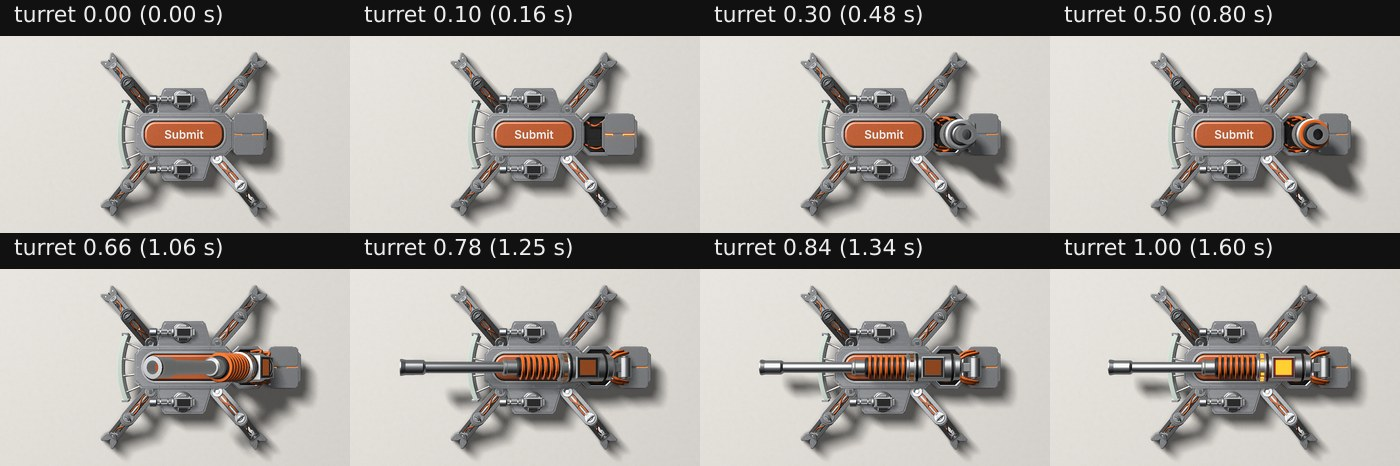
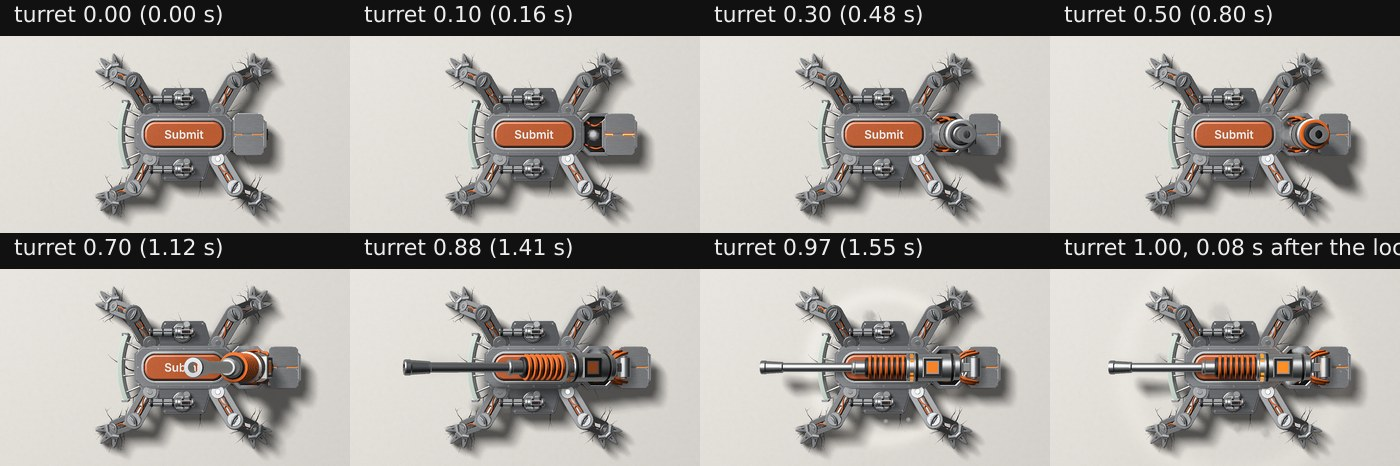
bosslook: smoke with lumps and shade, soot that reads dark, the button level when beaten, the lock at turret 0.94, sets for firing, the blast, damage, beaten and the page

diff --git a/src/boss/look1/fx.ts b/src/boss/look1/fx.ts
@@ -20,10 +20,11 @@ export interface Fx {
 
 const ORANGE: [number, number, number] = [1, 0.42, 0.1]
 const HOT: [number, number, number] = [1, 0.82, 0.55]
-const DUST: [number, number, number] = [0.66, 0.64, 0.61]
-const SMOKE: [number, number, number] = [0.3, 0.3, 0.31]
-const STEAM: [number, number, number] = [0.9, 0.9, 0.9]
-const SOOT: [number, number, number] = [0.1, 0.1, 0.105]
+const DUST: [number, number, number] = [0.42, 0.4, 0.37]
+const SMOKE: [number, number, number] = [0.085, 0.085, 0.09]
+const STEAM: [number, number, number] = [0.56, 0.57, 0.59]
+const SHADE: [number, number, number] = [0.05, 0.048, 0.045]
+const SOOT: [number, number, number] = [0.022, 0.021, 0.02]
 
 function texture(alpha: (u: number, v: number) => number, n = 64): THREE.DataTexture {
   const data = new Uint8Array(n * n * 4)
@@ -43,6 +44,26 @@ function texture(alpha: (u: number, v: number) => number, n = 64): THREE.DataTex
 }
 
 const blob = (u: number, v: number): number => { const r = Math.hypot(u, v); return r >= 1 ? 0 : Math.pow(1 - r * r, 2) }
+const noise = (x: number, y: number, seed: number): number => {
+  const i = Math.floor(x)
+  const j = Math.floor(y)
+  const fx = x - i
+  const fy = y - j
+  const sx = fx * fx * (3 - 2 * fx)
+  const sy = fy * fy * (3 - 2 * fy)
+  const a = hash01(i, j, seed)
+  const b = hash01(i + 1, j, seed)
+  const c = hash01(i, j + 1, seed)
+  const d = hash01(i + 1, j + 1, seed)
+  return a + (b - a) * sx + (c - a) * sy + (a - b - c + d) * sx * sy
+}
+// A puff: a soft ball whose edge is eaten by lumps, so it reads as smoke and not as a blurred dot.
+const puff = (u: number, v: number): number => {
+  const r = Math.hypot(u, v)
+  if (r >= 1) return 0
+  const n = 0.6 * noise(u * 2.6 + 9, v * 2.6 + 9, 71) + 0.4 * noise(u * 6.1 + 3, v * 6.1 + 3, 72)
+  return clamp01((1 - r * r) * 1.9 - n * 1.25) * (1 - r * r * r * r)
+}
 const ring = (u: number, v: number): number => { const r = Math.hypot(u, v); return Math.exp(-Math.pow((r - 0.8) / 0.09, 2)) }
 const bar = (_u: number, v: number): number => Math.pow(Math.max(0, 1 - v * v), 1.5)
 
@@ -141,14 +162,25 @@ export function makeFx(o: LookOptions, level0: Level): Fx {
   let level: Level = level0
   const budget = (): { chunks: number; puffs: number; lamps: number } => COUNTS[level ?? 'film']
 
-  const tex = { blob: texture(blob), ring: texture(ring, 128), bar: texture(bar, 32) }
-  const smoke = new Sprites(160, tex.blob, false, 40)
+  const tex = { blob: texture(blob), puff: texture(puff, 128), ring: texture(ring, 128), bar: texture(bar, 32) }
+  const soft = new Sprites(360, tex.puff, false, 40)
+  const lit = (c: [number, number, number], k: number): [number, number, number] => [Math.min(1, c[0] * k + 0.02), Math.min(1, c[1] * k + 0.02), Math.min(1, c[2] * k + 0.02)]
+  // Each puff is laid twice, a darker underside and a lighter top pushed toward the light, and throws a faint shade on the ground: that is all its volume.
+  const smoke = {
+    add(x: number, y: number, z: number, w: number, h: number, turn: number, colour: [number, number, number], a: number): void {
+      if (a <= 0.003) return
+      if (z > 6) soft.add(x + z * 0.32, y - z * 0.42, 1.2, w * 1.15, h * 1.15, turn, SHADE, a * 0.3)
+      soft.add(x + w * 0.05, y - h * 0.05, z, w, h, turn, lit(colour, 0.55), a)
+      soft.add(x - w * 0.07, y + h * 0.07, z + 0.4, w * 0.8, h * 0.8, turn + 1.7, lit(colour, 1.5), a * 0.85)
+    },
+    begin: (): void => soft.begin(), end: (): void => soft.end(), dispose: (): void => soft.dispose(), mesh: soft.mesh
+  }
   const glow = new Sprites(160, tex.blob, true, 50)
   const rings = new Sprites(24, tex.ring, true, 51)
   const bars = new Sprites(96, tex.bar, true, 52)
   const chunks = new Bits(64, chunkGeo(), kit.ceramic, true)
   const shards = new Bits(24, new THREE.TetrahedronGeometry(1, 0), kit.glassEdge, true)
-  const ballMat = new THREE.MeshBasicMaterial({ color: new THREE.Color(3.2, 1.25, 0.3) })
+  const ballMat = new THREE.MeshBasicMaterial({ color: new THREE.Color(1.35, 0.36, 0.05) })
   const balls = new Bits(96, new THREE.IcosahedronGeometry(1, 2), ballMat, true)
   balls.mesh.receiveShadow = false
 
@@ -174,7 +206,7 @@ export function makeFx(o: LookOptions, level0: Level): Fx {
   const footCracks = FEET.map(([fx, fy], i) => {
     const c = Math.cos(-o.home.heading)
     const s = Math.sin(-o.home.heading)
-    const m = mesh(crackStar(o.seed + 10 + i, 7, (a) => [Math.cos(a) * 9, Math.sin(a) * 9], 46, 1.5), kit.crack, false, false)
+    const m = mesh(crackStar(o.seed + 10 + i, 9, (a) => [Math.cos(a) * 15, Math.sin(a) * 15], 54, 1.3), kit.crack, false, false)
     m.position.set(hx + (fx * c - fy * s) * K, hy + (fx * s + fy * c) * K, 0.25)
     ground.add(m)
     return m
@@ -265,8 +297,11 @@ export function makeFx(o: LookOptions, level0: Level): Fx {
       landCracks.scale.setScalar(0.5 + 0.5 * outCubic(lin(f, FORM.land, FORM.land + 0.03)))
       footCracks.forEach((m, i) => {
         const at = FORM.legs[i]! + FORM.legTime
-        m.visible = o.ground && f >= at
-        m.scale.setScalar(0.4 + 0.6 * outCubic(lin(f, at, at + 0.03)))
+        const leg = p.legs[i]!
+        m.visible = o.ground && f >= at && leg.lift < 0.5
+        m.position.x = leg.planted[0]
+        m.position.y = leg.planted[1]
+        m.scale.setScalar(f >= 1 ? 1 - 0.6 * leg.lift * 2 : 0.4 + 0.6 * outCubic(lin(f, at, at + 0.03)))
       })
     }
     if (p.shown && f > 0) {
@@ -320,7 +355,7 @@ export function makeFx(o: LookOptions, level0: Level): Fx {
       const tt = t * TIMES.turret
       const [bx, by] = fromBody(p, HATCH.cx + 30, 0)
       if (t > 0.04 && t < 1) {
-        const fadeOut = 1 - prog(t, 0.86, 1)
+        const fadeOut = 1 - prog(t, 0.9, 1)
         for (let k = 0; k < 16; k++) {
           const age = tt - 0.08 - k * 0.075
           if (age < 0 || age > 0.75) continue
@@ -330,9 +365,14 @@ export function makeFx(o: LookOptions, level0: Level): Fx {
           smoke.add(bx + Math.cos(a) * 46 * u + 10 * u, by + Math.sin(a) * 40 * u + 16 * u, 70 + 40 * u, s, s, a, STEAM, 0.5 * (1 - u) * fadeOut)
         }
       }
-      if (b.locked || t >= 1) plume(bx, by, 64, now, 0.22, 1.1, 5, 22, STEAM, 0.22 * (1 - 0.6 * clamp01(b.stage / 2)))
-      const lockAge = (t - 0.8) * TIMES.turret
-      if (t >= 0.8 && t < 1) {
+      if (b.locked || t >= 1) {
+        const [s1x, s1y] = fromBody(p, HATCH.cx + 70, 96)
+        const [s2x, s2y] = fromBody(p, HATCH.cx + 40, -100)
+        plume(s1x, s1y, 70, now, 0.16, 1.3, 5, 24, STEAM, 0.5, 10, 20)
+        plume(s2x, s2y, 70, now, 0.19, 1.2, 6, 20, STEAM, 0.42, 14, -8)
+      }
+      const lockAge = p.lockAge
+      if (lockAge >= 0 && lockAge < 0.5) {
         const [px, py] = fromBody(p, CANNON.pivotX + 40, 0)
         sparks(px, py, 100, lockAge, 12, 400, 380, 0.3, HOT, 2)
         if (lockAge < 0.3) rings.add(p.x, p.y, 3, 260 + 420 * outCubic(lockAge / 0.3), 260 + 420 * outCubic(lockAge / 0.3), 0, [1, 0.9, 0.8], 0.14 * (1 - lockAge / 0.3))
@@ -485,9 +525,9 @@ export function makeFx(o: LookOptions, level0: Level): Fx {
       const [ex, ey] = fromBody(p, CANNON.pivotX + 200, 0)
       if (age < 0.35) {
         const k = 1 - age / 0.35
-        flash(ex, ey, 110, 420 * k + 120, HOT, 4 * k)
+        flash(ex, ey, 110, 300 * k + 100, HOT, 3 * k)
         rings.add(ex, ey, 20, 200 + 900 * outCubic(age / 0.35), 200 + 900 * outCubic(age / 0.35), 0, [1, 0.8, 0.6], 0.8 * k)
-        lamp(ex, ey, 120, [1, 0.62, 0.3], 2 * k, 420)
+        lamp(ex, ey, 120, [1, 0.62, 0.3], 1.1 * k, 380)
       }
       sparks(ex, ey, 100, age, 22, 900, 620, 0.6, HOT, 2.6)
       burst(ex, ey, 80, age, 16, 940, 170, 70, 1.3, SOOT, 0.75, 20)
@@ -531,7 +571,8 @@ export function makeFx(o: LookOptions, level0: Level): Fx {
       const a = Math.atan2(-s.vy, s.vx)
       const tl = Math.min(BULLET.trail, v * 0.06)
       balls.add(x, y, z, r, r, r, 0, 0, 0)
-      glow.add(x, y, z + r, r * 5.2, r * 5.2, 0, ORANGE, 0.55)
+      glow.add(x, y, z + r, r * 4.6, r * 4.6, 0, ORANGE, 0.5)
+      glow.add(x - r * 0.3, y + r * 0.3, z + r + 0.6, r * 1.1, r * 1.1, 0, HOT, 0.9)
       if (tl > 2) {
         bars.add(x - Math.cos(a) * tl * 0.5, y - Math.sin(a) * tl * 0.5, z, tl, r * 2.1, a, ORANGE, 0.9)
         bars.add(x - Math.cos(a) * tl * 0.28, y - Math.sin(a) * tl * 0.28, z + 0.3, tl * 0.56, r * 1.2, a, HOT, 1.2)
@@ -573,7 +614,7 @@ export function makeFx(o: LookOptions, level0: Level): Fx {
     for (const s of [smoke, glow, rings, bars]) s.dispose()
     for (const s of [chunks, shards, balls]) s.dispose()
     ballMat.dispose()
-    tex.blob.dispose(); tex.ring.dispose(); tex.bar.dispose()
+    tex.blob.dispose(); tex.puff.dispose(); tex.ring.dispose(); tex.bar.dispose()
     ground.traverse((x) => { if ((x as THREE.Mesh).isMesh) (x as THREE.Mesh).geometry.dispose() })
   }
   return { object, pose, setLevel: (l) => { level = l }, dispose }

diff --git a/src/boss/look1/pose.ts b/src/boss/look1/pose.ts
@@ -41,7 +41,7 @@ export const FORM = {
 } as const
 
 // The stages of the turret beat, as shares of boss.turret.
-export const TURRET = { hatch: [0.02, 0.16], rise: [0.14, 0.44], swing: [0.46, 0.8], lock: 0.8, kick: [0.8, 0.9], glow: [0.84, 1] } as const
+export const TURRET = { hatch: [0.02, 0.16], rise: [0.14, 0.44], swing: [0.46, 0.94], lock: 0.94, kick: 0.16, glow: [0.9, 1] } as const
 
 export const WALK = { pitch: 40, band: 0.24, lift: 46, bob: 5 }
 export const TIMES = { form: 2.9, turret: 1.6, beaten: 2, gunKick: 0.25, glance: 0.3, hit: 0.35, heal: 0.6, beam: 0.3, recoil: 0.45, after: 1.2, weak: 1.2 }
@@ -63,6 +63,8 @@ export interface Pose {
   legs: LegPose[]
   cannon: { show: boolean; x: number; z: number; elev: number; yaw: number; ribs: number; sleeve: number; barrel: number; window: number; bore: number; slits: number; heat: number; off: number }
   weak: number
+  // Seconds since the cannon came down on its rest; below 0 before, large when it can no longer be told.
+  lockAge: number
   // 0 whole, 1 and 2 the stages of the fight, 3 beaten.
   damage: number
   hurt: number
@@ -177,8 +179,10 @@ export function poseOf(view: BossView, o: LookOptions = DEFAULTS): Pose {
   const rise = outCubic(lin(t, TURRET.rise[0], TURRET.rise[1]))
   const sw = lin(t, TURRET.swing[0], TURRET.swing[1])
   const swing = inQuad(sw)
-  const lockAge = lin(t, TURRET.kick[0], TURRET.kick[1])
-  const lockKick = t >= TURRET.lock && t < TURRET.kick[1] ? Math.sin(Math.PI * Math.sqrt(lockAge)) * (1 - lockAge) : 0
+  const lockedAt = (b as { lockedAt?: number | null }).lockedAt
+  const lockAge = t < TURRET.lock ? -1 : t < 1 ? (t - TURRET.lock) * TIMES.turret : typeof lockedAt === 'number' ? now - lockedAt + (1 - TURRET.lock) * TIMES.turret : 99
+  const lockU = clamp01(lockAge / TURRET.kick)
+  const lockKick = lockAge >= 0 && lockAge < TURRET.kick ? Math.sin(Math.PI * Math.sqrt(lockU)) * (1 - lockU) : 0
   const stow = 150 - 597
   const cannonZ = mix(stow, CANNON.z + 60, rise) - 60 * swing
   const elev = (Math.PI / 2) * (1 - swing) + (t >= TURRET.lock ? -0.035 * lockKick : 0)
@@ -207,7 +211,7 @@ export function poseOf(view: BossView, o: LookOptions = DEFAULTS): Pose {
   const body = {
     x: -recoilBack - hurtShove + tj(1), y: tj(2),
     z: bodyZ - brace - 16 * lockKick - (formed ? walkBob : 0) - 58 * sagPart - 14 * blast,
-    yaw, pitch: flightPitch + 0.05 * blast - 0.012 * charge + 0.03 * sagPart, roll: 0.05 * sagPart + (formed ? 0.012 * Math.sin((b.walked / WALK.pitch) * Math.PI) : 0)
+    yaw, pitch: flightPitch + 0.05 * blast - 0.012 * charge, roll: formed && beaten <= 0 ? 0.012 * Math.sin((b.walked / WALK.pitch) * Math.PI) : 0
   }
 
   // Legs.
@@ -244,9 +248,9 @@ export function poseOf(view: BossView, o: LookOptions = DEFAULTS): Pose {
   const off = lin(beaten, 0, 0.35)
   const cannon = {
     show: t > TURRET.rise[0] && off < 1, x: mix(CANNON.bayX, CANNON.pivotX, smooth(sw)), z: cannonZ, elev, yaw: 0,
-    ribs: -225 * (1 - prog(t, 0.44, 0.6)), sleeve: -295 * (1 - prog(t, 0.5, 0.68)), barrel: -640 * (1 - (t >= 1 ? 1 : outBack(lin(t, 0.56, 0.84), 1.2))) - 46 * blast - 20 * charge,
-    window: 0.2 + 1.15 * glowUp + 2.2 * charge + (beamOn ? 5 : 0) + 1.5 * kick(blastAge, TIMES.after), bore: 0.05 + 1.2 * bump(t, 0.9, 1.0) + 0.5 * glowUp + 7 * charge * charge + (beamOn ? 14 : 0),
-    slits: 0.2 + 1.3 * prog(t, 0.86, 0.96) + 2 * charge, heat: clamp01(kick(blastAge, TIMES.after) * 1.4), off
+    ribs: -225 * (1 - prog(t, 0.44, 0.6)), sleeve: -295 * (1 - prog(t, 0.5, 0.68)), barrel: -640 * (1 - (t >= 1 ? 1 : outBack(lin(t, 0.6, 0.92), 1.2))) - 46 * blast - 20 * charge,
+    window: 0.2 + 1.15 * glowUp + 2.2 * charge + (beamOn ? 5 : 0) + 1.5 * kick(blastAge, TIMES.after), bore: 0.05 + 1.2 * kick(lockAge, 0.4) + 0.5 * glowUp + 7 * charge * charge + (beamOn ? 14 : 0),
+    slits: 0.2 + 1.3 * prog(t, 0.92, 1) + 2 * charge, heat: clamp01(kick(blastAge, TIMES.after) * 1.4), off
   }
 
   const cw = Math.cos(yaw)
@@ -266,7 +270,7 @@ export function poseOf(view: BossView, o: LookOptions = DEFAULTS): Pose {
     shield: { rise: shieldUp, slide: shieldOut, flash: kick(since(now, b.shield.glancedAt), TIMES.glance), broken: lin(beaten, 0.05, 0.3), show: f >= FORM.shield[0] },
     guns, legs, cannon,
     weak: b.weak ? (b.weak.shownAt === null ? 0 : 0.5 + 0.5 * Math.sin((now - b.weak.shownAt) * 16)) * 4 : 0,
-    damage: f < 1 ? 0 : beaten > 0.02 ? 3 : b.stage, hurt, heal: healNow, sag: sagPart, word
+    damage: f < 1 ? 0 : beaten > 0.02 ? 3 : b.stage, hurt, heal: healNow, sag: sagPart, lockAge, word
   }
 }
 

diff --git a/src/boss/look1/model.ts b/src/boss/look1/model.ts
@@ -124,7 +124,7 @@ function legGeo(): { upper: Record<string, THREE.BufferGeometry>; lower: Record<
   ]
   const knuckle = (ang: number, len: number, w: number): THREE.BufferGeometry => across(15, w / 2 + 3, 2, 14).translate(len * 0.56, 0, 30).rotateZ(ang)
   const foot = {
-    plate: joined([...finger(0, 112, 40), ...finger(0.66, 104, 38), ...finger(-0.66, 104, 38), ...finger(Math.PI, 62, 44)]),
+    plate: joined([...finger(0, 146, 42), ...finger(0.62, 134, 40), ...finger(-0.62, 134, 40), ...finger(Math.PI, 66, 46)]),
     joint: joined([discAt(40, 0, 0, 4, 46, 5, 24), knuckle(0, 112, 40), knuckle(0.66, 104, 38), knuckle(-0.66, 104, 38)]),
     pin: joined([discAt(17, 0, 0, 45, 53, 2, 16), screwsAt([[26, 0], [-13, 22.5], [-13, -22.5]], 46, 4.5, 21)]),
     dark: joined([boxAt(70, -3.5, 12, 100, 3.5, 31, 1), boxAt(66, -3.5, 12, 94, 3.5, 31, 1).rotateZ(0.66), boxAt(66, -3.5, 12, 94, 3.5, 31, 1).rotateZ(-0.66)])
@@ -147,7 +147,7 @@ function cannonGeo(): Record<string, THREE.BufferGeometry> {
     along([[r.breech + 0.6, b0 + 38], [r.breech + 2.5, b0 + 40], [r.breech + 2.5, b0 + 50], [r.breech + 0.6, b0 + 52]], 40),
     along([[r.breech + 0.6, b1 - 64], [r.breech + 2.5, b1 - 62], [r.breech + 2.5, b1 - 52], [r.breech + 0.6, b1 - 50]], 40)
   ])
-  const window = boxAt(b0 + 124, -36, r.breech + 7, b0 + 194, 36, r.breech + 11, 0.5)
+  const window = boxAt(b0 + 130, -30, r.breech + 7, b0 + 190, 30, r.breech + 11, 0.5)
   const slit = joined([-1, 1].flatMap((s) => [0, 1, 2].map((i) => boxAt(b1 - 38, -8, r.breech - 4.2, b1 - 18, 8, r.breech + 0.8, 0.4).rotateX(s * (0.5 + i * 0.36)))))
   const yoke = joined([across(38, 58, 4), across(20, 66, 3, 20)])
   const hoses = joined([-1, 1].flatMap((s) => [

diff --git a/src/boss/look1/kit.ts b/src/boss/look1/kit.ts
@@ -269,7 +269,7 @@ export interface LookKit {
   glass: THREE.MeshPhysicalMaterial
   glassEdge: THREE.MeshPhysicalMaterial
   crack: THREE.MeshPhysicalMaterial
-  soot: THREE.MeshPhysicalMaterial
+  soot: THREE.MeshBasicMaterial
   ceramic: THREE.MeshPhysicalMaterial
 }
 
@@ -300,7 +300,7 @@ export function lookKit(): LookKit {
     glass: studio(new THREE.MeshPhysicalMaterial({ color: srgb(0x9cc4b0), roughness: 0.3, metalness: 0, clearcoat: 0.6, clearcoatRoughness: 0.2, specularIntensity: 0.6, envMapIntensity: 0.5, transparent: true, opacity: 0.62, depthWrite: false })),
     glassEdge: studio(new THREE.MeshPhysicalMaterial({ color: srgb(0xcfe2d8), roughness: 0.22, metalness: 0.1, clearcoat: 1, clearcoatRoughness: 0.06, specularIntensity: 1 })),
     crack: studio(new THREE.MeshPhysicalMaterial({ color: srgb(0x1c1a19), roughness: 0.9, metalness: 0, specularIntensity: 0.1, transparent: true, depthWrite: false, polygonOffset: true, polygonOffsetFactor: -2, polygonOffsetUnits: -4 })),
-    soot: studio(new THREE.MeshPhysicalMaterial({ color: srgb(0x1a1a1b), roughness: 0.95, metalness: 0, specularIntensity: 0.05, transparent: true, opacity: 0.6, depthWrite: false, polygonOffset: true, polygonOffsetFactor: -2, polygonOffsetUnits: -4 })),
+    soot: new THREE.MeshBasicMaterial({ color: new THREE.Color(0.018, 0.017, 0.016), transparent: true, opacity: 0.62, depthWrite: false, polygonOffset: true, polygonOffsetFactor: -2, polygonOffsetUnits: -4 }),
     ceramic: m.ceramic
   }
   return look

diff --git a/src/boss/look1/events.ts b/src/boss/look1/events.ts
@@ -8,7 +8,7 @@ export const EVENTS = {
   'body-land': { on: 'form', at: FORM.land, seconds: 0.99, sound: 0.9, note: 'he lands on the slab on his belly' },
   'leg-stomp': { on: 'form', at: [FORM.legs[0] + FORM.legTime, FORM.legs[1] + FORM.legTime, FORM.legs[2] + FORM.legTime, FORM.legs[3] + FORM.legTime], seconds: [1.8, 2.03, 2.26, 2.49], sound: 0.35, note: 'each foot comes down' },
   'turret-rise': { on: 'turret', at: TURRET.hatch[0], seconds: 0.03, sound: 1.25, note: 'the hatch slides, then the cannon climbs; the sound runs to the lock' },
-  'turret-lock': { on: 'turret', at: TURRET.lock, seconds: 1.28, sound: 0.7, note: 'the cannon comes down on its rest; the kick is on this frame' },
+  'turret-lock': { on: 'turret', at: 1, seconds: 1.6, sound: 0.7, note: 'the fight fires it when turret reaches 1; the cannon comes down on its rest at turret 0.94 (0.10 s before) and the kick, sparks and ring run 0.16 to 0.5 s from there, past turret 1 when the view carries boss.lockedAt' },
   'bullet-fire': { on: 'guns[i].firedAt', at: 0, seconds: 0, sound: 0.3, note: 'flash for 0.07 s, kick for 0.25 s' },
   'shield-glance': { on: 'shield.glancedAt', at: 0, seconds: 0, sound: 0.35, note: 'the glass flashes for 0.3 s' },
   'boss-heal': { on: 'healedAt', at: 0, seconds: 0, sound: 0.6, note: 'a pulse over the hull for 0.6 s' },

diff --git a/src/boss/look1/numbers.ts b/src/boss/look1/numbers.ts
@@ -11,5 +11,5 @@ export const SHIELD = { mid: 388, half: 194, r: 514, thick: 25, z0: 92, z1: 222 
 export const HIPS: [number, number][] = [[205, 152], [205, -152], [-205, 152], [-205, -152]]
 export const FEET: [number, number][] = [[412, 366], [412, -366], [-416, 370], [-416, -370]]
 export const LEG = { a: 190, b: 200, hipZ: 138, ankle: 34, lean: -0.42 }
-export const CANNON = { pivotX: -521, bayX: -385, z: 268, breech: [89, 391] as const, ribs: [391, 631] as const, sleeve: [631, 707] as const, barrel: [707, 1111] as const, brake: [1111, 1237] as const, r: { breech: 79, ribs: 71, core: 56, sleeve: 38, barrel: 22, brake: 35 } }
+export const CANNON = { pivotX: -521, bayX: -385, z: 268, breech: [89, 391] as const, ribs: [391, 631] as const, sleeve: [631, 707] as const, barrel: [707, 1111] as const, brake: [1111, 1237] as const, r: { breech: 79, ribs: 71, core: 56, sleeve: 38, barrel: 26, brake: 40 } }
 

diff --git a/src/boss/look1/index.ts b/src/boss/look1/index.ts
@@ -49,6 +49,8 @@ function apply(m: Model, legsRoot: THREE.Group, p: Pose): void {
     const out = p.wings[i]!
     w.visible = p.hull.show && out > 0.001
     w.position.set(p.hull.x, p.hull.y - side * (1 - out) * (WING.reach + 6), p.hull.z - (1 - Math.min(1, out)) * 4)
+    w.rotation.x = -side * 0.1 * p.sag
+    w.position.z -= 10 * p.sag
   })
 
   m.hatch.visible = p.hull.show && p.hatch.gone < 1
@@ -71,6 +73,8 @@ function apply(m: Model, legsRoot: THREE.Group, p: Pose): void {
     g.root.visible = p.hull.show && q.rise > 0.001
     g.root.position.set(GUN.x + p.hull.x, side * GUN.y + p.hull.y - side * (1 - out) * (WING.reach + 6), GUN.z - 3 + p.hull.z - (1 - q.rise) * 70)
     poseGun(g, q)
+    g.root.rotation.set(-side * 0.16 * p.sag, 0.2 * p.sag * side, 0)
+    g.root.position.z -= 22 * p.sag
   })
 
   p.legs.forEach((l, i) => {
